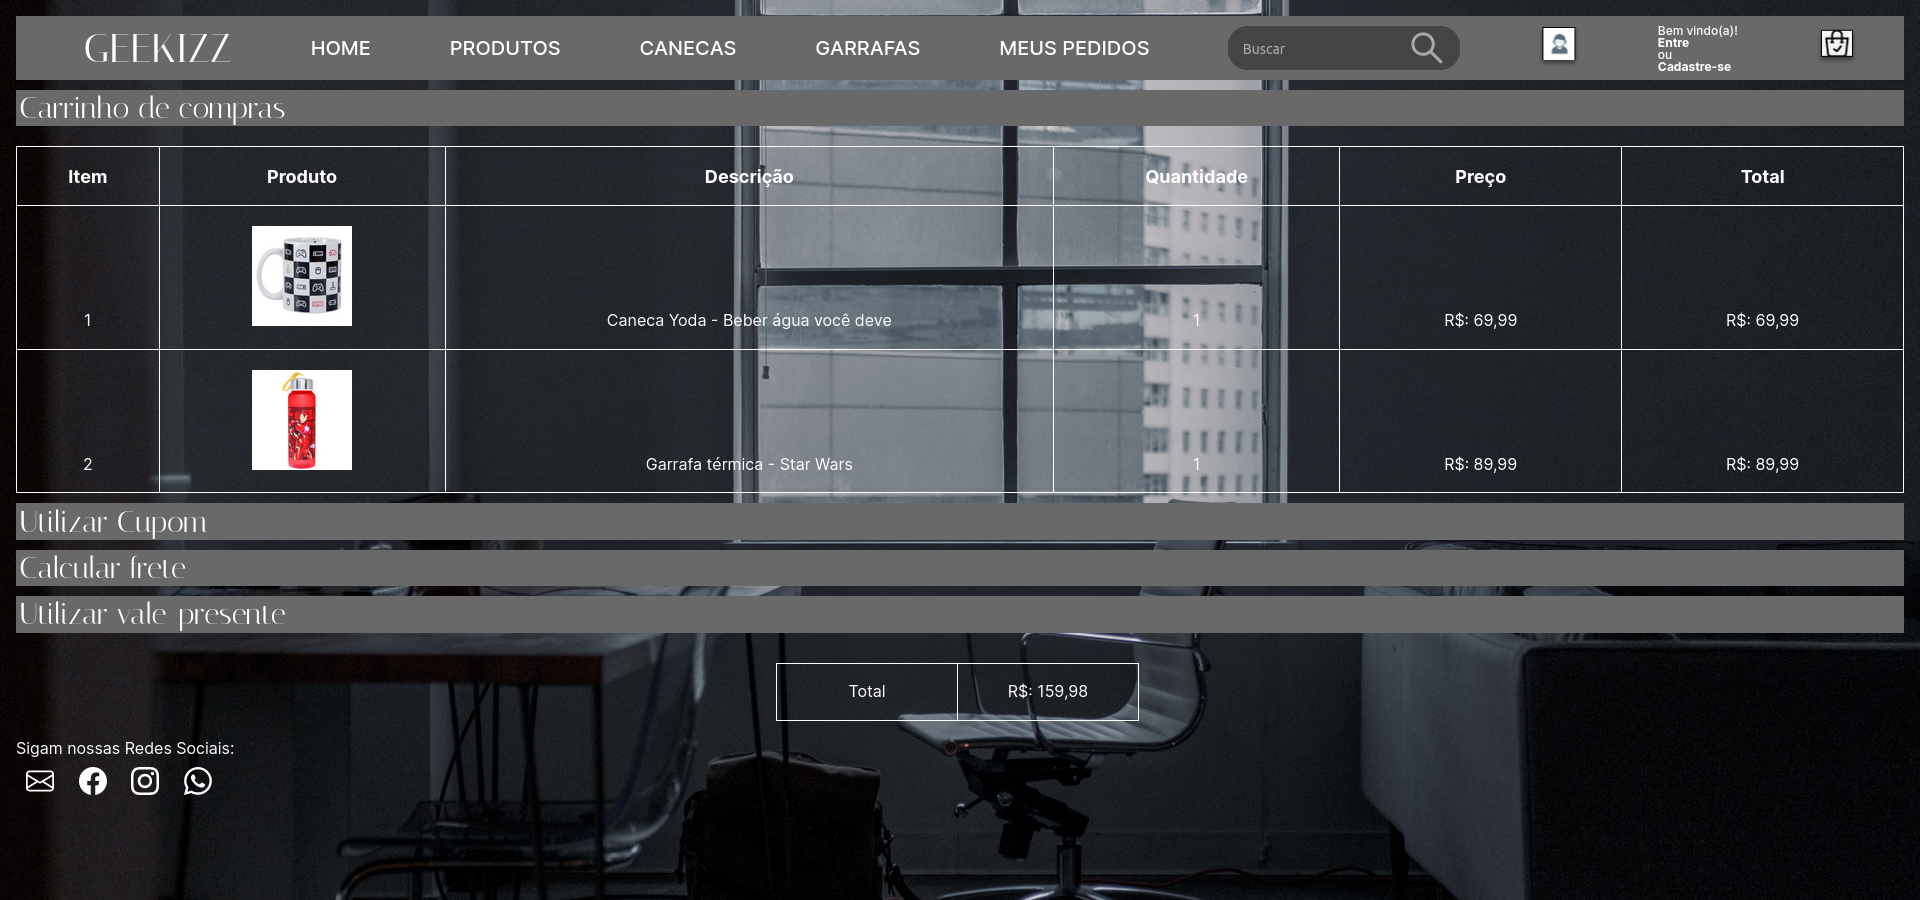
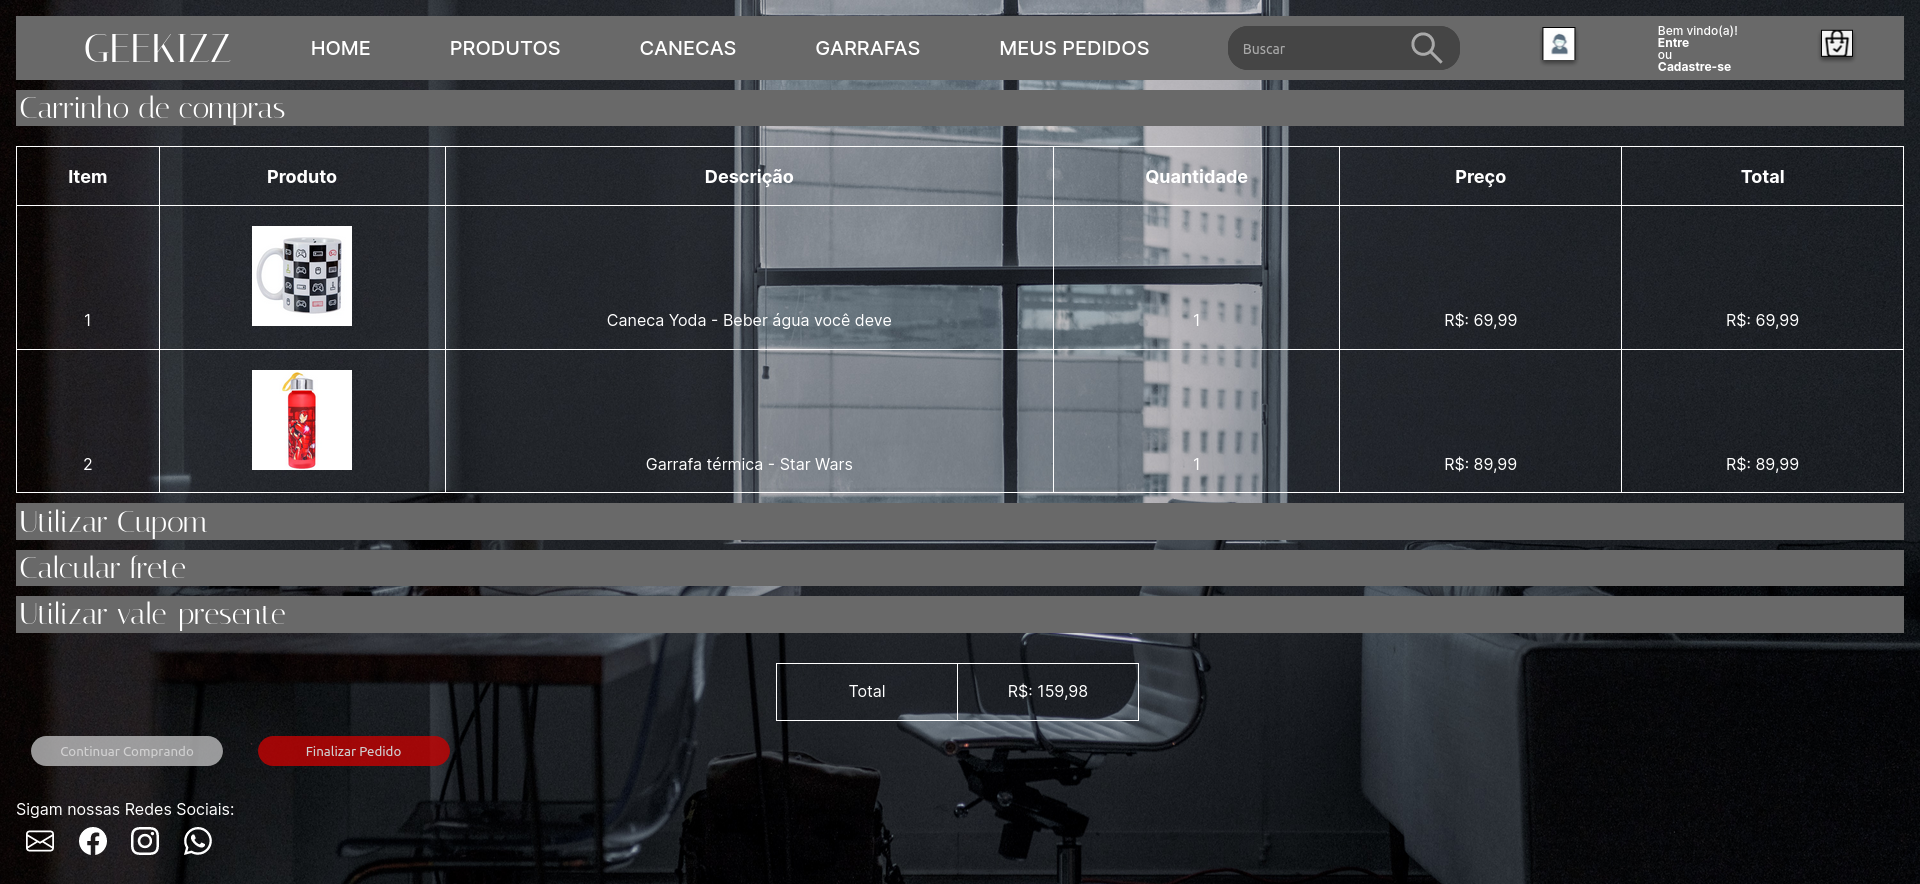
correções finais e substituição da imagem do carrinho

diff --git a/Geekizz/finalizar.html b/Geekizz/finalizar.html
@@ -1,0 +1,72 @@
+<!DOCTYPE html>
+<html>
+
+<head>
+  <meta charset="utf-8">
+  <meta name="viewport" content="width=device-width">
+  <title>GEEKIZZ</title>
+  <link rel="stylesheet" href="./css/reset.css" />
+  <link rel="stylesheet" href="./css/style.css" />
+  <link rel="preconnect" href="https://fonts.googleapis.com">
+  <link rel="preconnect" href="https://fonts.gstatic.com" crossorigin>
+  <link href="https://fonts.googleapis.com/css2?family=Inter:wght@400;500;700&family=Italiana&display=swap"
+    rel="stylesheet">
+</head>
+
+<body>
+  <header class="cabecalho">
+    <div class="container">
+      <ul class="lista-menu">
+        <li>
+          <h1 class="container-titulo">GEEKIZZ</h1>
+        </li>
+        <li class="lista-item"><a href="./index.html">Home</a></li>
+        <li class="lista-item"><a href="./produtos.html">Produtos</a></li>
+        <li class="lista-item"><a href="./canecas.html">Canecas</a></li>
+        <li class="lista-item"><a href="./garrafas.html">Garrafas</a></li>
+        <li class="lista-item"><a href="./carrinho.html">Meus Pedidos</a></li>
+        <li><input type="search" class="banner__pesquisa" placeholder="Buscar"></li>
+        <li><img src="img/usuario.svg" alt="Usuário" class="icones"></li>
+        <li class="lista-login">
+          <p>Bem vindo(a)! </p>
+          <a href="./login.html" class="links-login">Entre</a>
+          <p>ou </p>
+          <a href="./cadastrar.html" class="links-login">Cadastre-se</a>
+        </li>
+        <li><a href="./carrinho.html"><img src="img/sacola.svg" alt="Sacola de compras" class="icones"></a></li>
+      </ul>
+    </div>
+  </header>
+  <main class="principal">
+    <div id="em-construcao">
+      <h1>EM CONSTRUÇÃO!</h1>
+    </div>
+    
+  </main>
+
+  <footer class="icones-footer">
+    <p>Sigam nossas Redes Sociais:</p>
+
+    
+    <a href="mailto:contato@geekizz.com">
+    <svg xmlns="http://www.w3.org/2000/svg" width="28" height="28" fill="#ffffff" class="bi bi-envelope" viewBox="0 0 16 16">
+    <path d="M0 4a2 2 0 0 1 2-2h12a2 2 0 0 1 2 2v8a2 2 0 0 1-2 2H2a2 2 0 0 1-2-2V4Zm2-1a1 1 0 0 0-1 1v.217l7 4.2 7-4.2V4a1 1 0 0 0-1-1H2Zm13 2.383-4.708 2.825L15 11.105V5.383Zm-.034 6.876-5.64-3.471L8 9.583l-1.326-.795-5.64 3.47A1 1 0 0 0 2 13h12a1 1 0 0 0 .966-.741ZM1 11.105l4.708-2.897L1 5.383v5.722Z"/>
+    </svg></a>
+
+    <a href="https://www.facebook.com/geekizz_loja"><svg xmlns="http://www.w3.org/2000/svg" width="28" height="28" fill="#ffffff" class="bi bi-facebook" viewBox="0 0 16 16">
+    <path d="M16 8.049c0-4.446-3.582-8.05-8-8.05C3.58 0-.002 3.603-.002 8.05c0 4.017 2.926 7.347 6.75 7.951v-5.625h-2.03V8.05H6.75V6.275c0-2.017 1.195-3.131 3.022-3.131.876 0 1.791.157 1.791.157v1.98h-1.009c-.993 0-1.303.621-1.303 1.258v1.51h2.218l-.354 2.326H9.25V16c3.824-.604 6.75-3.934 6.75-7.951z"/>
+    </svg></a>
+
+  <a href="https://www.instagram.com/geekizz_loja"><svg xmlns="http://www.w3.org/2000/svg" width="28" height="28" fill="#ffffff" class="bi bi-instagram" viewBox="0 0 16 16">
+    <path d="M8 0C5.829 0 5.556.01 4.703.048 3.85.088 3.269.222 2.76.42a3.917 3.917 0 0 0-1.417.923A3.927 3.927 0 0 0 .42 2.76C.222 3.268.087 3.85.048 4.7.01 5.555 0 5.827 0 8.001c0 2.172.01 2.444.048 3.297.04.852.174 1.433.372 1.942.205.526.478.972.923 1.417.444.445.89.719 1.416.923.51.198 1.09.333 1.942.372C5.555 15.99 5.827 16 8 16s2.444-.01 3.298-.048c.851-.04 1.434-.174 1.943-.372a3.916 3.916 0 0 0 1.416-.923c.445-.445.718-.891.923-1.417.197-.509.332-1.09.372-1.942C15.99 10.445 16 10.173 16 8s-.01-2.445-.048-3.299c-.04-.851-.175-1.433-.372-1.941a3.926 3.926 0 0 0-.923-1.417A3.911 3.911 0 0 0 13.24.42c-.51-.198-1.092-.333-1.943-.372C10.443.01 10.172 0 7.998 0h.003zm-.717 1.442h.718c2.136 0 2.389.007 3.232.046.78.035 1.204.166 1.486.275.373.145.64.319.92.599.28.28.453.546.598.92.11.281.24.705.275 1.485.039.843.047 1.096.047 3.231s-.008 2.389-.047 3.232c-.035.78-.166 1.203-.275 1.485a2.47 2.47 0 0 1-.599.919c-.28.28-.546.453-.92.598-.28.11-.704.24-1.485.276-.843.038-1.096.047-3.232.047s-2.39-.009-3.233-.047c-.78-.036-1.203-.166-1.485-.276a2.478 2.478 0 0 1-.92-.598 2.48 2.48 0 0 1-.6-.92c-.109-.281-.24-.705-.275-1.485-.038-.843-.046-1.096-.046-3.233 0-2.136.008-2.388.046-3.231.036-.78.166-1.204.276-1.486.145-.373.319-.64.599-.92.28-.28.546-.453.92-.598.282-.11.705-.24 1.485-.276.738-.034 1.024-.044 2.515-.045v.002zm4.988 1.328a.96.96 0 1 0 0 1.92.96.96 0 0 0 0-1.92zm-4.27 1.122a4.109 4.109 0 1 0 0 8.217 4.109 4.109 0 0 0 0-8.217zm0 1.441a2.667 2.667 0 1 1 0 5.334 2.667 2.667 0 0 1 0-5.334z"/>
+  </svg></a>
+
+  <a href="https://whatsa.me/558100000000"><svg xmlns="http://www.w3.org/2000/svg" width="28" height="28" fill="#ffffff" class="bi bi-whatsapp" viewBox="0 0 16 16">
+    <path d="M13.601 2.326A7.854 7.854 0 0 0 7.994 0C3.627 0 .068 3.558.064 7.926c0 1.399.366 2.76 1.057 3.965L0 16l4.204-1.102a7.933 7.933 0 0 0 3.79.965h.004c4.368 0 7.926-3.558 7.93-7.93A7.898 7.898 0 0 0 13.6 2.326zM7.994 14.521a6.573 6.573 0 0 1-3.356-.92l-.24-.144-2.494.654.666-2.433-.156-.251a6.56 6.56 0 0 1-1.007-3.505c0-3.626 2.957-6.584 6.591-6.584a6.56 6.56 0 0 1 4.66 1.931 6.557 6.557 0 0 1 1.928 4.66c-.004 3.639-2.961 6.592-6.592 6.592zm3.615-4.934c-.197-.099-1.17-.578-1.353-.646-.182-.065-.315-.099-.445.099-.133.197-.513.646-.627.775-.114.133-.232.148-.43.05-.197-.1-.836-.308-1.592-.985-.59-.525-.985-1.175-1.103-1.372-.114-.198-.011-.304.088-.403.087-.088.197-.232.296-.346.1-.114.133-.198.198-.33.065-.134.034-.248-.015-.347-.05-.099-.445-1.076-.612-1.47-.16-.389-.323-.335-.445-.34-.114-.007-.247-.007-.38-.007a.729.729 0 0 0-.529.247c-.182.198-.691.677-.691 1.654 0 .977.71 1.916.81 2.049.098.133 1.394 2.132 3.383 2.992.47.205.84.326 1.129.418.475.152.904.129 1.246.08.38-.058 1.171-.48 1.338-.943.164-.464.164-.86.114-.943-.049-.084-.182-.133-.38-.232z"/>
+    </svg></a>
+</footer>
+
+  <script src="script.js"></script>
+</body>
+
+</html>

diff --git a/Geekizz/carrinho.html b/Geekizz/carrinho.html
@@ -96,8 +96,9 @@
             </table>
         </div>
         <div>
-            <input class="f1-btn-continuar" type="submit" value="Continuar Comprando">
-            <input class="f1-btn-finalizar" type="submit" value="Finalizar Pedido">
+            <a href="./produtos.html"><input class="f1-btn-continuar" type="button" value="Continuar Comprando" onclick=""></a>
+            <a href="./finalizar.html"><input class="f1-btn-finalizar" type="button" value="Finalizar Pedido" onclick=""></a>
+            
             
         </div>
 

diff --git a/Geekizz/css/style.css b/Geekizz/css/style.css
@@ -147,6 +147,13 @@ a {
   text-decoration: none;
 }
 
+#em-construcao {
+  display: flex;
+  padding: 200px;
+  font-size: 100px;
+  text-align: center;
+}
+
 /*
 .icones-footer  img {
   padding: 10px;

diff --git a/Geekizz/css/carrinho.css b/Geekizz/css/carrinho.css
@@ -117,5 +117,4 @@
 	margin: 15px;
 	align-items: left;
 	justify-content: left;
-
-
+}

diff --git a/README.md b/README.md
@@ -41,6 +41,6 @@ Canecas
 
 Garrafas
 
-[![geekizz-carrinho.png](https://i.postimg.cc/Hshj1D6h/geekizz-carrinho.png)](https://postimg.cc/rK5q5bX1) 
+[![geekizz-carrinho.png](https://i.postimg.cc/CKcvTs94/geekizz-carrinho.png)](https://postimg.cc/jWJ6yPxW)
 
 Carrinho de Compras
